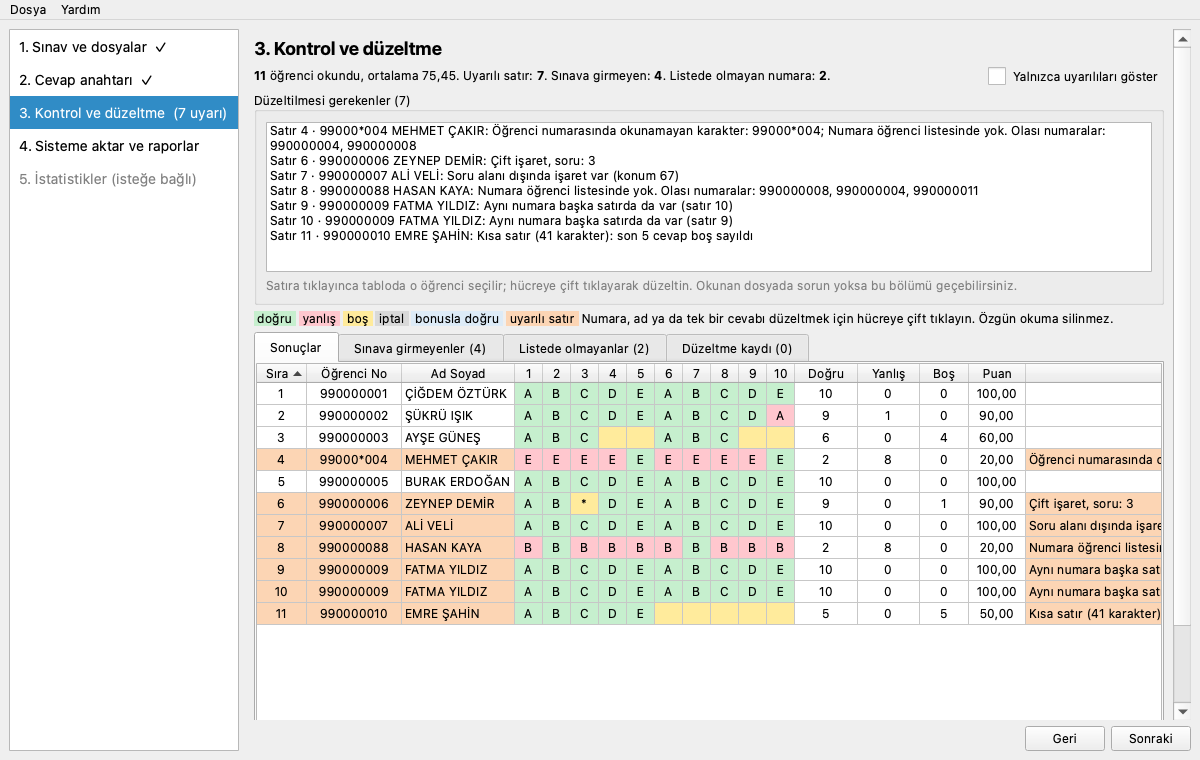
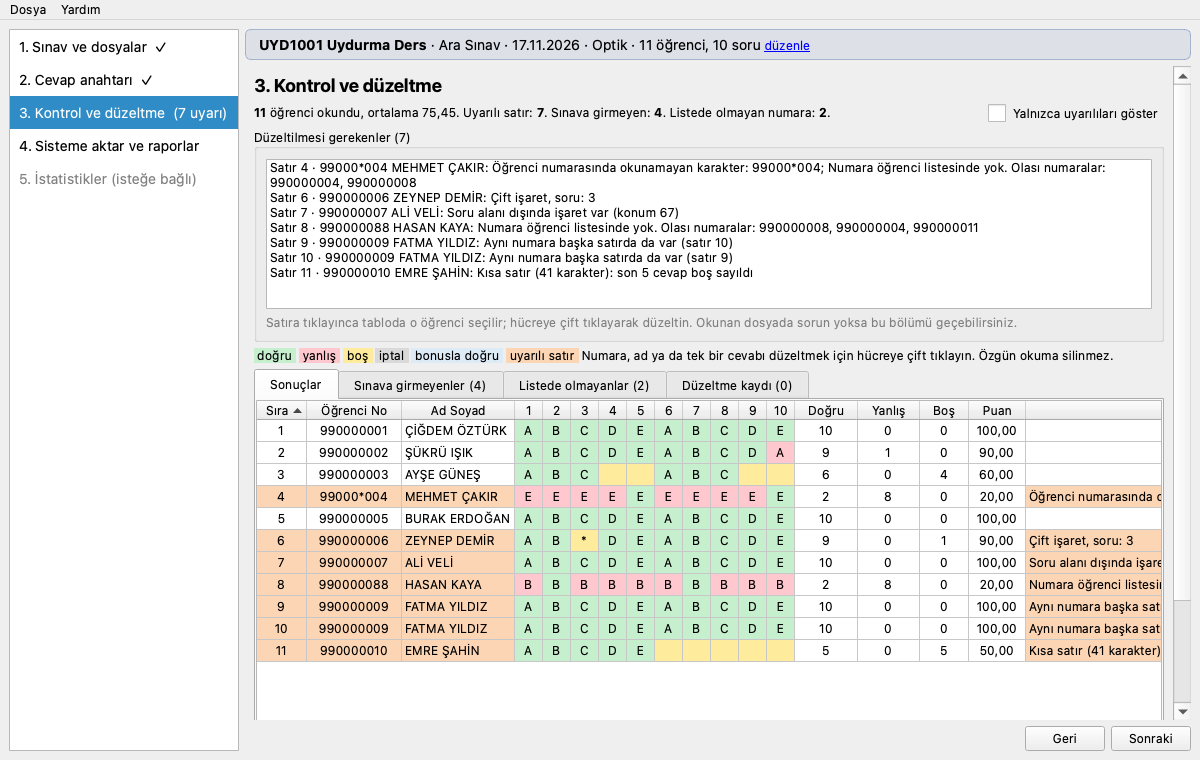
Sınav kimliği şeridi, dersle başlayan pencere başlığı, kopyalamada ders teyidi
Her adımın üstünde açık sınavın kimliği (ders, sınav türü, tarih, biçim, öğrenci
ve soru sayısı); tıklayınca 1. adım. Pencere ve sekme başlığı dersle başlar.
Kopyalama iletileri hangi ders için kopyalandığını söyler. Masaüstünde son
açılanlar ders adlarıyla. Masaüstü ve tarayıcıda aynı metin.

Changed region(s): [[0.185, 0.0303, 1.0, 0.8776]]

diff --git a/web/src/arayuz.js b/web/src/arayuz.js
@@ -347,7 +347,34 @@
     }
     UI.otomatikKaydet();
   };
+  // Sınav kimliği (masaüstündeki Durum.sinav_kimligi ile aynı metin) ve kısa adı
+  const tarihYaz = (t) => { const p = String(t || "").split("-"); return p.length === 3 && p.every((x) => /^\d+$/.test(x)) ? `${p[2]}.${p[1]}.${p[0]}` : String(t || ""); };
+  UI.sinavKisaAdi = function () {
+    const p = D.proje, s = p.sinav, bas = s.ders_kodu || s.ders_adi;
+    if (bas) return [bas, s.sinav_turu].filter(Boolean).join(" ");
+    const dosya = p.bicim === "klasik" ? p.liste_yolu : p.dat_yolu;
+    return dosya ? `Adsız sınav (${dosya})` : "Yeni sınav";
+  };
+  UI.sinavKimligi = function () {
+    const p = D.proje, s = p.sinav, kl = p.bicim === "klasik";
+    let ders = [s.ders_kodu, s.ders_adi].filter(Boolean).join(" ");
+    if (!ders) { const dosya = kl ? p.liste_yolu : p.dat_yolu; ders = dosya ? `Adsız sınav · ${dosya}` : "Yeni sınav"; }
+    const parca = [`<b>${e(ders)}</b>`];
+    if (s.sinav_turu) parca.push(e(s.sinav_turu));
+    if (s.tarih) parca.push(e(tarihYaz(s.tarih)));
+    parca.push(kl ? "Klasik" : "Optik");
+    const ogrenci = kl && D.liste ? D.liste.ogrenciler.length : D.okuma ? D.okuma.kayitlar.length : 0;
+    const n = OS.aktarimSorulari(p.anahtar).length, bonus = p.anahtar.sorular.length - n;
+    const sayilar = [];
+    if (ogrenci) sayilar.push(`${ogrenci} öğrenci`);
+    if (n) sayilar.push(`${n} soru${bonus ? ` (+${bonus} bonus)` : ""}`);
+    if (sayilar.length) parca.push(sayilar.join(", "));
+    return parca.join(" · ");
+  };
   UI.altGuncelle = function () {
+    const km = document.getElementById("kimlik");
+    if (km) { km.innerHTML = UI.sinavKimligi() + ' <a href="#" class="duzenle">düzenle</a>'; km.onclick = (ev) => { ev.preventDefault(); UI.git(0); }; }
+    document.title = `${UI.sinavKisaAdi()} — Optik Sınav Değerlendirme`;
     const ek = UI.adimlar[D.adim].eksikler();
     $("#eksik").textContent = ek.length ? "Eksik: " + ek.join(" ") : "";
     $("#geri").disabled = D.adim === 0;
@@ -377,7 +404,7 @@
         <nav class="adimlar">${ADIMLAR.map((a, i) => `<button data-adim="${i}"><span class="no">${i + 1}.</span>${a}<span class="tamam"></span></button>`).join("")}
           <div class="gizlilik">Program internete bağlanmaz. Öğrenci verisi yalnızca bu tarayıcıda işlenir. Son çalışma bu tarayıcıda saklanır; ortak bilgisayarda işiniz bitince "Yeni sınav"a basın.</div>
         </nav>
-        <main><div id="icerik"></div>
+        <main><div id="kimlik" class="kimlik" title="Açık sınav. Bilgileri değiştirmek için tıklayın."></div><div id="icerik"></div>
           <div class="alt"><span class="eksik" id="eksik"></span><button id="geri">Geri</button><button id="sonraki" class="ana">Sonraki</button></div>
         </main>
       </div>`;
@@ -954,7 +981,7 @@
       const metin = OS.soruTanimiMetni(a, D.proje.ayarlar, UI.ogrenmeKodlari().length ? UI.ogrenmeKodlari() : null);
       const tamam = await kopyala(metin);
       const adimlar = `Akademik Bilgi Sistemi'nde:\n1. Sınav Akreditasyon İşlemleri'nde dersi ve sınavı açın.\n2. "Toplu Sınav Soru Tanım" kutusunda "Toplu Aktarım Yap" seçin.\n3. "Kolon Ayracı" "Excel'den Kopyalandı" olsun.\n4. Sağdaki Aktarım Kutusu'na tıklayıp yapıştırın (Mac'te Cmd+V, Windows'ta Ctrl+V).\n5. "Aktar" düğmesine basın.`;
-      if (tamam) bilgi("Panoya kopyalandı", `${OS.aktarimSorulari(a).length} sorunun tanımı kopyalandı.\n\n${adimlar}`);
+      if (tamam) bilgi("Panoya kopyalandı", `${UI.sinavKisaAdi()} için ${OS.aktarimSorulari(a).length} sorunun tanımı kopyalandı. Sistemde aynı dersin ve sınavın ekranını açtığınızdan emin olun.\n\n${adimlar}`);
       else pencere("Kopyalamak için seçin", `<p>Tarayıcı panoya yazmaya izin vermedi. Aşağıdaki metni seçip kopyalayın (Cmd+C ya da Ctrl+C):</p><textarea style="width:100%;height:220px;font-family:Menlo,monospace">${e(metin)}</textarea><p style="white-space:pre-wrap">${e(adimlar)}</p>`,
         [{ metin: "Kapat", deger: true, ana: true }], (p) => $("textarea", p).select());
       return tamam;

diff --git a/web/src/arayuz2.js b/web/src/arayuz2.js
@@ -669,7 +669,7 @@
       const sutunKopyala = async (sut, ne, profilAdi = "akreditasyon_soru_bazli_varsayilan") => {
         const pr = Object.assign({}, OS.PROFILLER[profilAdi], { sutunlar: sut });
         const metin = OS.panoMetni(pr, s);
-        if (await kopyala(metin)) bildir(`Panoya ${metin.split("\n").length} ${ne} kopyalandı (${s.liste_var ? "öğrenci listesi sırası" : "optik dosya sırası"}). Sistemdeki tablonun ilk hücresine yapıştırın.`, 6000);
+        if (await kopyala(metin)) bildir(`${UI.sinavKisaAdi()} için panoya ${metin.split("\n").length} ${ne} kopyalandı (${s.liste_var ? "öğrenci listesi sırası" : "optik dosya sırası"}). Sistemde aynı dersin ekranında olduğunuzdan emin olun; tablonun ilk hücresine yapıştırın.`, 7000);
         else bilgi("Kopyalanamadı", "Tarayıcı panoya yazmaya izin vermedi.");
       };
       $("#puanlariKopyala", k).onclick = () => sutunKopyala([{ alan: "ogrenci_no", baslik: "Öğrenci No" }, { alan: "soru_puanlari", baslik: "S{n}" }], "öğrencinin soru puanları");

diff --git a/web/src/stil.css b/web/src/stil.css
@@ -150,3 +150,8 @@ button.aktar-dugme { min-width: 250px; text-align: left; font-weight: 600; paddi
 .duzeltilecek ul { margin: 6px 0; padding-left: 20px; max-height: 170px; overflow: auto; }
 .duzeltilecek li { margin: 3px 0; font-size: 14px; }
 #sonucTablo tr.vurgu td { outline: 2px solid var(--vurgu); outline-offset: -2px; }
+
+/* sınav kimliği şeridi: her adımın üstünde */
+.kimlik { margin: 12px 20px 0; padding: 7px 12px; border-radius: 8px; background: var(--vurgu-acik); border: 1px solid color-mix(in srgb, var(--vurgu) 35%, transparent);
+  color: var(--yazi); font-size: 14px; cursor: pointer; }
+.kimlik a.duzenle { font-size: 12px; margin-left: 6px; color: var(--vurgu); }

diff --git a/src/optik_sinav/ui/durum.py b/src/optik_sinav/ui/durum.py
@@ -60,6 +60,36 @@ class Durum(QObject):
         self.degisti.emit()
         return d
 
+    def sinav_kisa_adi(self) -> str:
+        """Kısa kimlik: "EKF4507 Ara Sınav"; ders kodu yoksa ders adı, o da yoksa dosya adı, hiçbiri yoksa "Yeni sınav"."""
+        return sinav_kisa_adi(self.proje)
+
+    def sinav_kimligi(self) -> str:
+        """Her adımın üstündeki şerit için zengin metin: ders, sınav türü, tarih, biçim, öğrenci ve soru sayısı."""
+        p = self.proje
+        s = p.sinav
+        ders = " ".join(x for x in (s.ders_kodu, s.ders_adi) if x)
+        if not ders:
+            dosya = Path(p.liste_yolu if p.klasik else p.dat_yolu).name if (p.liste_yolu if p.klasik else p.dat_yolu) else ""
+            ders = f"Adsız sınav · {dosya}" if dosya else "Yeni sınav"
+        parca = [f"<b>{_kacis(ders)}</b>"]
+        if s.sinav_turu:
+            parca.append(_kacis(s.sinav_turu))
+        if s.tarih:
+            parca.append(_tarih_yaz(s.tarih))
+        parca.append("Klasik" if p.klasik else "Optik")
+        ogrenci = len(self.liste.ogrenciler) if (p.klasik and self.liste) else (len(self.okuma.kayitlar) if self.okuma else 0)
+        n = len(p.anahtar.aktarim_sorulari())
+        bonus = p.anahtar.soru_sayisi - n
+        sayilar = []
+        if ogrenci:
+            sayilar.append(f"{ogrenci} öğrenci")
+        if n:
+            sayilar.append(f"{n} soru" + (f" (+{bonus} bonus)" if bonus else ""))
+        if sayilar:
+            parca.append(", ".join(sayilar))
+        return " · ".join(parca)
+
     def ogrenme_kodlari(self) -> list[str]:
         return self.ders.ogrenme_kodlari() if self.ders else []
 
@@ -329,6 +359,37 @@ def son_acilanlar() -> list[str]:
     if isinstance(v, str):
         v = [v]
     return [x for x in (v or []) if Path(x).exists()]
+
+
+def _kacis(m: str) -> str:
+    return str(m).replace("&", "&amp;").replace("<", "&lt;").replace(">", "&gt;")
+
+
+def _tarih_yaz(t: str) -> str:
+    """2026-11-17 → 17.11.2026 (başka biçimse olduğu gibi)."""
+    p = str(t).split("-")
+    return f"{p[2]}.{p[1]}.{p[0]}" if len(p) == 3 and all(x.isdigit() for x in p) else str(t)
+
+
+def sinav_kisa_adi(proje) -> str:
+    s = proje.sinav
+    bas = s.ders_kodu or s.ders_adi
+    if bas:
+        return " ".join(x for x in (bas, s.sinav_turu) if x)
+    dosya = proje.liste_yolu if proje.klasik else proje.dat_yolu
+    return f"Adsız sınav ({Path(dosya).name})" if dosya else "Yeni sınav"
+
+
+def osd_okunur_adi(yol: str) -> str:
+    """Son açılanlar menüsü için: "EKF4507 Ara Sınav (17.11.2026) — dosya.osd"; okunamazsa dosya yolu."""
+    try:
+        v = json.loads(Path(yol).read_text(encoding="utf-8"))
+        s = v.get("sinav") or {}
+        bas = " ".join(x for x in (s.get("ders_kodu") or s.get("ders_adi") or "", s.get("sinav_turu") or "") if x)
+        tarih = f" ({_tarih_yaz(s['tarih'])})" if s.get("tarih") else ""
+        return f"{bas}{tarih} — {Path(yol).name}" if bas else Path(yol).name
+    except (OSError, ValueError, KeyError, AttributeError):
+        return str(yol)
 
 
 def kurtarma_klasoru() -> Path:

diff --git a/src/optik_sinav/ui/ana_pencere.py b/src/optik_sinav/ui/ana_pencere.py
@@ -19,7 +19,7 @@ from .adimlar.disa_aktar import DisaAktarAdimi
 from .adimlar.dosyalar import DosyalarAdimi
 from .adimlar.istatistik import IstatistikAdimi
 from .adimlar.kontrol import KontrolAdimi
-from .durum import Durum, kurtarma_ozeti, kurtarmayi_yedekle, son_acilanlar
+from .durum import Durum, kurtarma_ozeti, kurtarmayi_yedekle, osd_okunur_adi, son_acilanlar
 
 
 class KaydirmaAlani(QScrollArea):
@@ -71,6 +71,15 @@ class AnaPencere(QMainWindow):
         yatay.addWidget(self.adim_listesi)
 
         sag = QVBoxLayout()
+        # Sınav kimliği: her adımın üstünde hangi sınavla çalışıldığı; tıklayınca 1. adıma gider
+        self.kimlik = QLabel()
+        self.kimlik.setWordWrap(True)
+        self.kimlik.setTextFormat(Qt.TextFormat.RichText)
+        self.kimlik.setStyleSheet("QLabel { background: rgba(47, 85, 151, 0.10); border: 1px solid rgba(47, 85, 151, 0.35); "
+                                  "border-radius: 6px; padding: 6px 10px; font-size: 14px; }")
+        self.kimlik.setToolTip("Açık sınav. Bilgileri değiştirmek için \"düzenle\"ye tıklayın.")
+        self.kimlik.linkActivated.connect(lambda _x: self.adim_listesi.setCurrentRow(0))
+        sag.addWidget(self.kimlik)
         self.serit = QLabel()
         self.serit.setWordWrap(True)
         self.serit.setStyleSheet("background: #fff4e5; color: #7a4100; border: 1px solid #f0c27a; border-radius: 6px; padding: 8px;")
@@ -185,7 +194,9 @@ class AnaPencere(QMainWindow):
         if not yollar:
             self.son_menu.addAction("(boş)").setEnabled(False)
         for y in yollar:
-            self.son_menu.addAction(y, lambda y=y: self.proje_ac(y))
+            e = self.son_menu.addAction(osd_okunur_adi(y), lambda y=y: self.proje_ac(y))
+            e.setToolTip(y)
+        self.son_menu.setToolTipsVisible(True)
 
     # ---------------------------------------------------------------- gezinme
     def _adima_git(self, i: int):
@@ -239,9 +250,11 @@ class AnaPencere(QMainWindow):
             self.serit.setVisible(bool(satirlar) and self.durum.sonuc is None)
         else:
             self.serit.setVisible(False)
-        baslik = M.UYGULAMA_ADI
+        self.kimlik.setText(self.durum.sinav_kimligi() + "  <a href='duzenle' style='font-size:12px'>düzenle</a>")
+        # pencere başlığı: Dock'ta ve görev çubuğunda hangi sınavın açık olduğu görünsün
+        baslik = f"{self.durum.sinav_kisa_adi()} — {M.UYGULAMA_ADI}"
         if self.durum.proje_yolu:
-            baslik += f" — {self.durum.proje_yolu.name}"
+            baslik += f" ({self.durum.proje_yolu.name})"
         self.setWindowTitle(baslik)
 
     # ---------------------------------------------------------------- proje dosyası

diff --git a/tests/test_arayuz.py b/tests/test_arayuz.py
@@ -476,3 +476,23 @@ def test_ogrenme_ciktilari_varsayilan_esit(pencere, fix, monkeypatch):
     sozluk = d.proje.to_dict()
     sozluk.pop("cikti_elle")
     assert SinavProjesi.from_dict(sozluk).cikti_elle
+
+
+def test_sinav_kimligi_seridi(pencere, fix, tmp_path):
+    """Her adımın üstünde sınav kimliği; pencere başlığında kısa ad; son açılanlarda okunur ad; ders değişince güncellenir."""
+    from optik_sinav.ui.durum import osd_okunur_adi
+
+    d = pencere.durum
+    assert "Yeni sınav" in pencere.kimlik.text() and pencere.windowTitle().startswith("Yeni sınav")
+    p1 = pencere.adimlar[0]
+    p1._dat_ac(str(fix / "uydurma_1254_crlf.dat"))
+    assert "Adsız sınav · uydurma_1254_crlf.dat" in pencere.kimlik.text() and "11 öğrenci, 10 soru" in pencere.kimlik.text()
+    p1.ders_kodu.setText("EKF4507")
+    assert "<b>EKF4507 Sermaye Piyasası ve Portföy Yönetimi</b>" in pencere.kimlik.text()
+    assert pencere.windowTitle().startswith("EKF4507 Ara Sınav")
+    pencere.adim_listesi.setCurrentRow(3)
+    assert pencere.kimlik.isVisibleTo(pencere)  # her adımda görünür
+    yol = d.kaydet(str(tmp_path / "s.osd"))
+    assert osd_okunur_adi(str(yol)).startswith("EKF4507 Ara Sınav (") and osd_okunur_adi(str(yol)).endswith("— s.osd")
+    p1.ders_kodu.setText("UTL4513")  # başka derse geçildi
+    assert "UTL4513" in pencere.kimlik.text() and pencere.windowTitle().startswith("UTL4513")

diff --git a/src/optik_sinav/ui/adimlar/disa_aktar.py b/src/optik_sinav/ui/adimlar/disa_aktar.py
@@ -186,7 +186,8 @@ class DisaAktarAdimi(Adim):
         from .anahtar import soru_tanimini_kopyala
 
         if soru_tanimini_kopyala(self, self.durum):
-            self.durum_satiri.setText(f"✓ {len(self.durum.proje.anahtar.aktarim_sorulari())} sorunun tanımı panoya kopyalandı.")
+            self.durum_satiri.setText(f"✓ {self.durum.sinav_kisa_adi()} için {len(self.durum.proje.anahtar.aktarim_sorulari())} sorunun tanımı "
+                                      "panoya kopyalandı. Sistemde aynı dersin ekranında olduğunuzdan emin olun.")
 
     def _ogrenci_puanlarini_kopyala(self):
         self._kopyala([Sutun("ogrenci_no", "Öğrenci No"), Sutun("soru_puanlari", "S{n}")], "öğrencinin soru puanları")
@@ -352,7 +353,8 @@ class DisaAktarAdimi(Adim):
                 sira = None
         QGuiApplication.clipboard().setText(pano_metni(p, s, sira))
         satir = len(sira) if sira is not None else len(tablo_uret(p, s)[2])
-        self.durum_satiri.setText(f"✓ Panoya {satir} {ne} kopyalandı ({kaynak}). Sistemdeki tablonun ilk hücresine yapıştırın.")
+        self.durum_satiri.setText(f"✓ {self.durum.sinav_kisa_adi()} için panoya {satir} {ne} kopyalandı ({kaynak}). "
+                                  "Sistemde aynı dersin ekranında olduğunuzdan emin olun; tablonun ilk hücresine yapıştırın.")
 
     def _karneler(self):
         from PySide6.QtCore import QUrl

diff --git a/src/optik_sinav/ui/adimlar/anahtar.py b/src/optik_sinav/ui/adimlar/anahtar.py
@@ -976,7 +976,8 @@ def soru_tanimini_kopyala(ebeveyn, durum) -> bool:
         return False
     QGuiApplication.clipboard().setText(metin)
     QMessageBox.information(ebeveyn, "Panoya kopyalandı",
-                            f"{len(a.aktarim_sorulari())} sorunun tanımı kopyalandı.\n\n"
+                            f"{durum.sinav_kisa_adi()} için {len(a.aktarim_sorulari())} sorunun tanımı kopyalandı. "
+                            "Sistemde aynı dersin ve sınavın ekranını açtığınızdan emin olun.\n\n"
                             "Akademik Bilgi Sistemi'nde:\n"
                             "1. Sınav Akreditasyon İşlemleri'nde dersi ve sınavı açın.\n"
                             "2. \"Toplu Sınav Soru Tanım\" kutusunda \"Toplu Aktarım Yap\" seçin.\n"

diff --git a/src/optik_sinav/ui/adimlar/kontrol.py b/src/optik_sinav/ui/adimlar/kontrol.py
@@ -197,6 +197,7 @@ class KontrolAdimi(Adim):
         self.tablo.verticalHeader().setDefaultSectionSize(22)
         if not s:
             self.ozet.setText("Değerlendirilecek okuma yok.")
+            self._duzeltilecekleri_doldur(None)
             return
         n = s.anahtar.soru_sayisi
         h = self.tablo.horizontalHeader()

diff --git a/CLAUDE.md b/CLAUDE.md
@@ -64,6 +64,7 @@ Ayrıntılı tanım `PROJE_TANIMI.md` dosyasındadır. Bu dosya önemli kararlar
 - **Sınava girmedi (klasik):** `SinavProjesi.klasik_girmedi`; `klasik_degerlendir(..., girmedi)` / `klasikDegerlendir(..., girmedi)` işaretliyi puanı olsa bile girmeyen sayar, puanlar silinmez (paritede: klasik senaryoda puanlı bir öğrenci işaretli). Puan tablosunda son sütun "Girmedi" (masaüstünde `KlasikGirisModeli.girmedi_sutunu`, sütun sayısı 3 + n + 3), kâğıt panelinde "Sınava girmedi" düğmesi; puan kaydedilince işaret kalkar. "Puan tablosunu Excel'e kaydet" (eski adı "Boş puan şablonu") puanları sayı olarak, Toplam ve Girmedi sütunlarıyla yazar; `tablodan_girmedi` / `OS.tablodanGirmedi` geri okur.
 - **Sade düzen (17 Kasım 2026):** beş adım: 0 Sınav ve dosyalar, 1 Cevap anahtarı (klasikte "Sorular ve puanlar"), 2 Kontrol ve düzeltme (klasikte "Puan girişi"), 3 Sisteme aktar ve raporlar, 4 İstatistikler (isteğe bağlı). Eski "Puanlama" adımı yok: `PuanlamaAdimi` 2. adımın altında katlanır `ayarlar_paneli` (tarayıcıda `adim3`, `#ayarlarBolumu` içinde çizilir; `UI.adimlar` beş öğe); eksikleri 2. adıma sayılır. 1. adımda biçim ve dosyalar önde, ders bilgileri altta, sınav türü/tarih/dönem katlı, sütun eşlemesi "Sütunları değiştir" ile. 2. adımda eşit puanda Puan sütunu, kullanılmıyorsa Program çıktıları sütunu gizli. 3. adımda (optik) "Düzeltilmesi gerekenler" listesi (`duzeltilecekler` / `.duzeltilecek`). 4. adımda sırasıyla "1. Soruları kopyala" (`soru_tanimini_kopyala` / `UI.soruTanimiKopyala`), "2. Öğrenci puanlarını kopyala" (numara + soru puanları), "3. Not girişi için puanları kopyala" (numara + puan; not giriş biçimi), Raporlar, katlı Gelişmiş (biçim, önizleme, tek tek, şablon). Adım listesi: hazırlık adımları ✓ ya da •, 3. adımda uyarı sayısı ya da klasikte girilen/toplam. Adım numarası metinlerde geçiyorsa bu düzene göre yazılır.
 - **Öğrenme çıktısı varsayılanı (17 Kasım 2026):** `esit_cikti_atamasi` / `OS.esitCiktiAtamasi` soruları çıktılara sırayla, eşit sayıda paylaştırır (bonus hariç; j·k // n). `SinavProjesi.cikti_elle` False iken 2. adım her çizimde atamayı eşit tutar (soru sayısı ya da ders değişse de); hoca çıktıyı değiştirince (çıktı kutusu gerçekten değişince, Seç…, ders eşlemesi yükleme) True olur ve bir daha dokunulmaz; "Yeniden eşit dağıt" onayla False'a döner. Eski dosyalarda alan yoksa çıktı girilmişse True sayılır. Örnekler `tests/web/cikti_esit.json` (paritede).
+- **Sınav kimliği (17 Kasım 2026):** her adımın üstünde şerit (`AnaPencere.kimlik` / `#kimlik`): `Durum.sinav_kimligi()` / `UI.sinavKimligi()` aynı metni üretir (ders kodu ve adı, yoksa "Adsız sınav · dosya", sınav türü, tarih, biçim, öğrenci ve aktarılan soru sayısı, bonus); tıklayınca 1. adım. Pencere ve sekme başlığı `sinav_kisa_adi` / `UI.sinavKisaAdi` ile başlar. Kopyalama teyitleri "… için" diye dersi söyler. Masaüstünde son açılanlar `osd_okunur_adi` ile okunur adla (tarayıcıda son açılanlar listesi yok).
 - **Arayüz sadeliği:** sık kullanılmayan işlemler açılır menüdedir: masaüstünde `temel.menu_dugmesi`, tarayıcıda `UI.acilirMenu` (`<details class="acilir">`). İstatistiklerde önde Madde analizi, Öğrenme çıktıları, Dönem sonu notu; ötekiler "Diğer analizler" (masaüstünde gizli sekmeler, `analiz_ac`; tarayıcıda `ANA_SEKMELER`). 2. adımda "Diğer işlemler" (çıktı dağıtma, ders eşlemesi), 4. adımın Gelişmiş bölümünde "Tek tek kaydet / indir". Klasik sınavda 3. adımda optik açıklaması, uyarı süzgeci, listede olmayanlar ve düzeltme kaydı gizlidir.
 - **Kâğıt sırasıyla giriş (klasik):** `ui/adimlar/kagit.py` ve `arayuz2.js` (`kagitPaneli`); numara ya da Türkçe harf duyarsız ad parçasıyla arama. `SinavProjesi.klasik_toplamlar`: kâğıttaki toplam; `klasik_degerlendir(..., toplamlar)` tutmazsa uyarır (iki motorda, paritede).
 - **Dağıtım:** Sürüm dosya adları sürümsüzdür (`OptikSinav.html`, `OptikSinav-Mac-AppleSilicon.dmg`, `OptikSinav-Mac-Intel.dmg`, `OptikSinav-Windows-Kurulum.exe`, `OptikSinav-Windows-Tasinabilir.zip`); README ve indirme sayfası `releases/latest/download/<dosya>` bağlantılarını kullanır. İndirme sayfası `site/index.html`, GitHub Pages'e `.github/workflows/sayfa.yml` ile yayımlanır (uygulama da `uygulama.html` olarak).

diff --git a/README.md b/README.md
@@ -66,7 +66,7 @@ python -m optik_sinav            # arayüz
 
 ## Kullanım
 
-Program tek pencerede, soldaki beş adımla ilerler: dördü zorunlu iş (sınav, sorular, kontrol, sisteme aktarım), beşincisi isteğe bağlı istatistiklerdir. Zorunlu olanlar önde, seyrek kullanılan ayarlar katlanır bölümlerde ve menülerdedir. Adımlar arasında serbestçe dolaşabilirsiniz; eksik olan alt satırda yazar, tamamlanan adımın yanında ✓ görünür. Optik (test) ve klasik (yazılı) sınavlar desteklenir. `Ctrl+Enter` bir sonraki adıma geçer.
+Program tek pencerede, soldaki beş adımla ilerler: dördü zorunlu iş (sınav, sorular, kontrol, sisteme aktarım), beşincisi isteğe bağlı istatistiklerdir. Zorunlu olanlar önde, seyrek kullanılan ayarlar katlanır bölümlerde ve menülerdedir. Her adımın üstündeki şerit hangi sınavla çalıştığınızı gösterir (ders kodu ve adı, sınav türü, tarih, öğrenci ve soru sayısı); pencere ve sekme başlığı da dersle başlar, Dosya > Son açılanlar menüsü sınavları ders adlarıyla listeler. Adımlar arasında serbestçe dolaşabilirsiniz; eksik olan alt satırda yazar, tamamlanan adımın yanında ✓ görünür. Optik (test) ve klasik (yazılı) sınavlar desteklenir. `Ctrl+Enter` bir sonraki adıma geçer.
 
 ### 1. Sınav ve dosyalar
 
